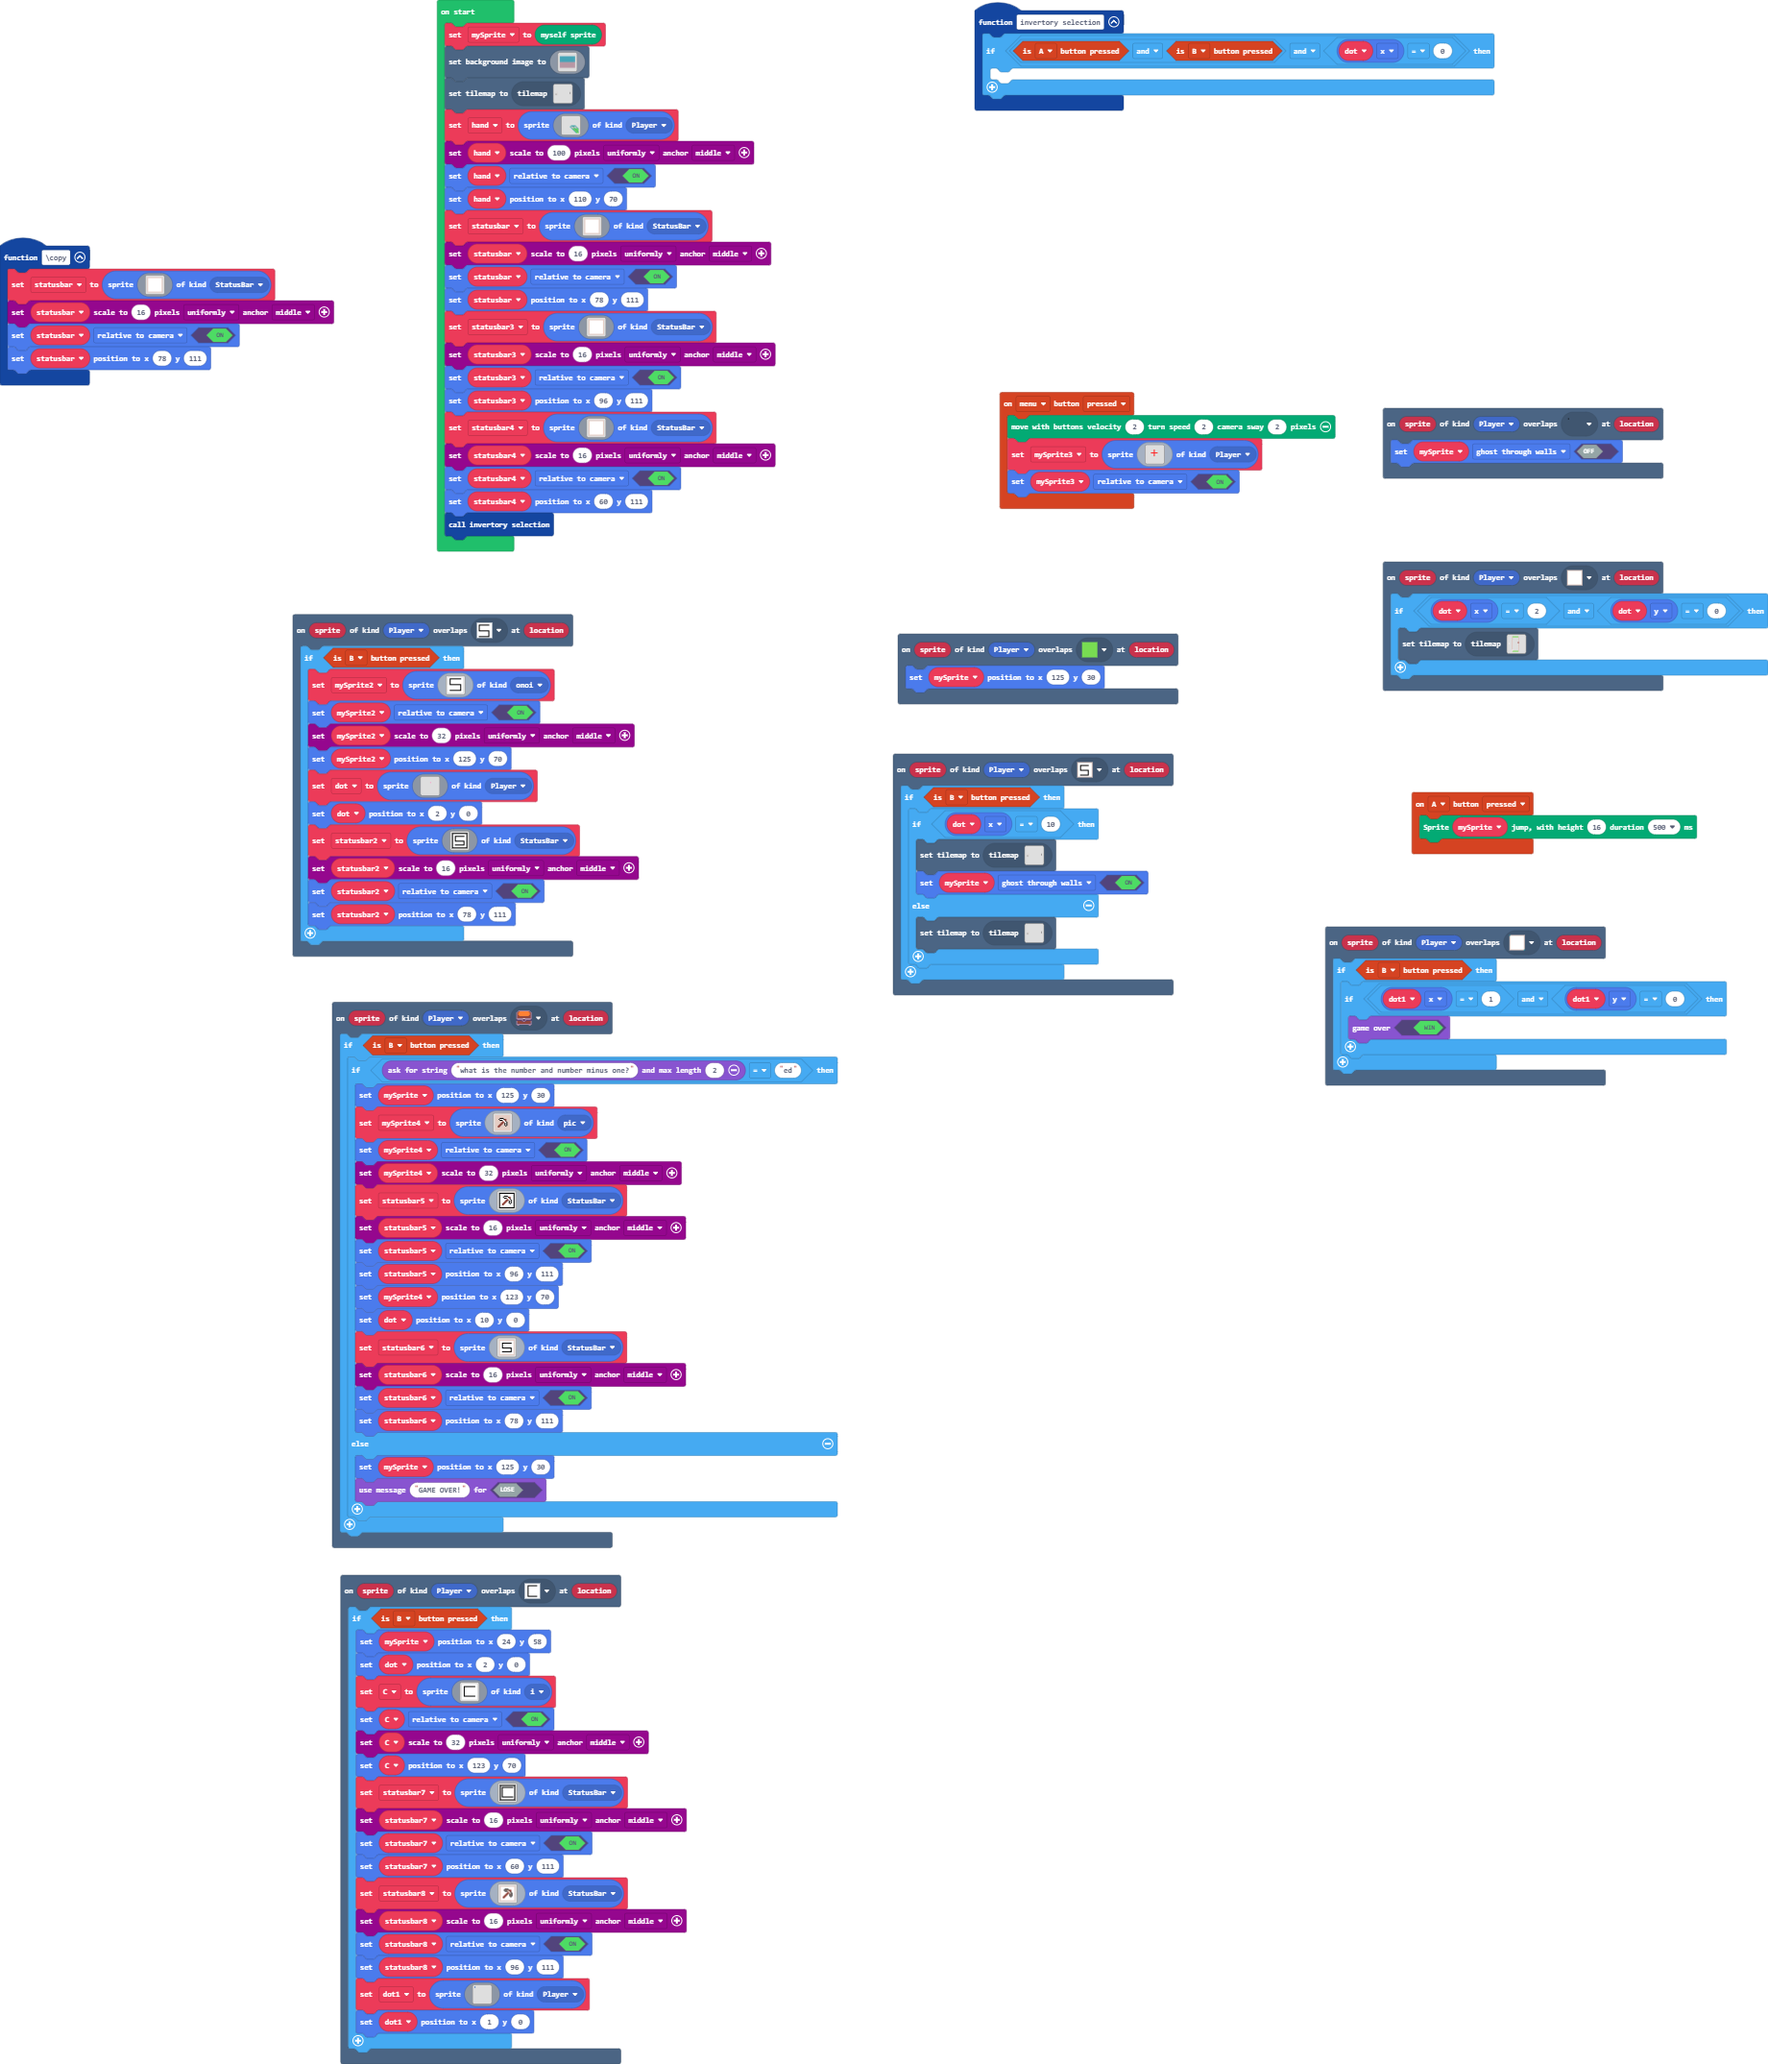
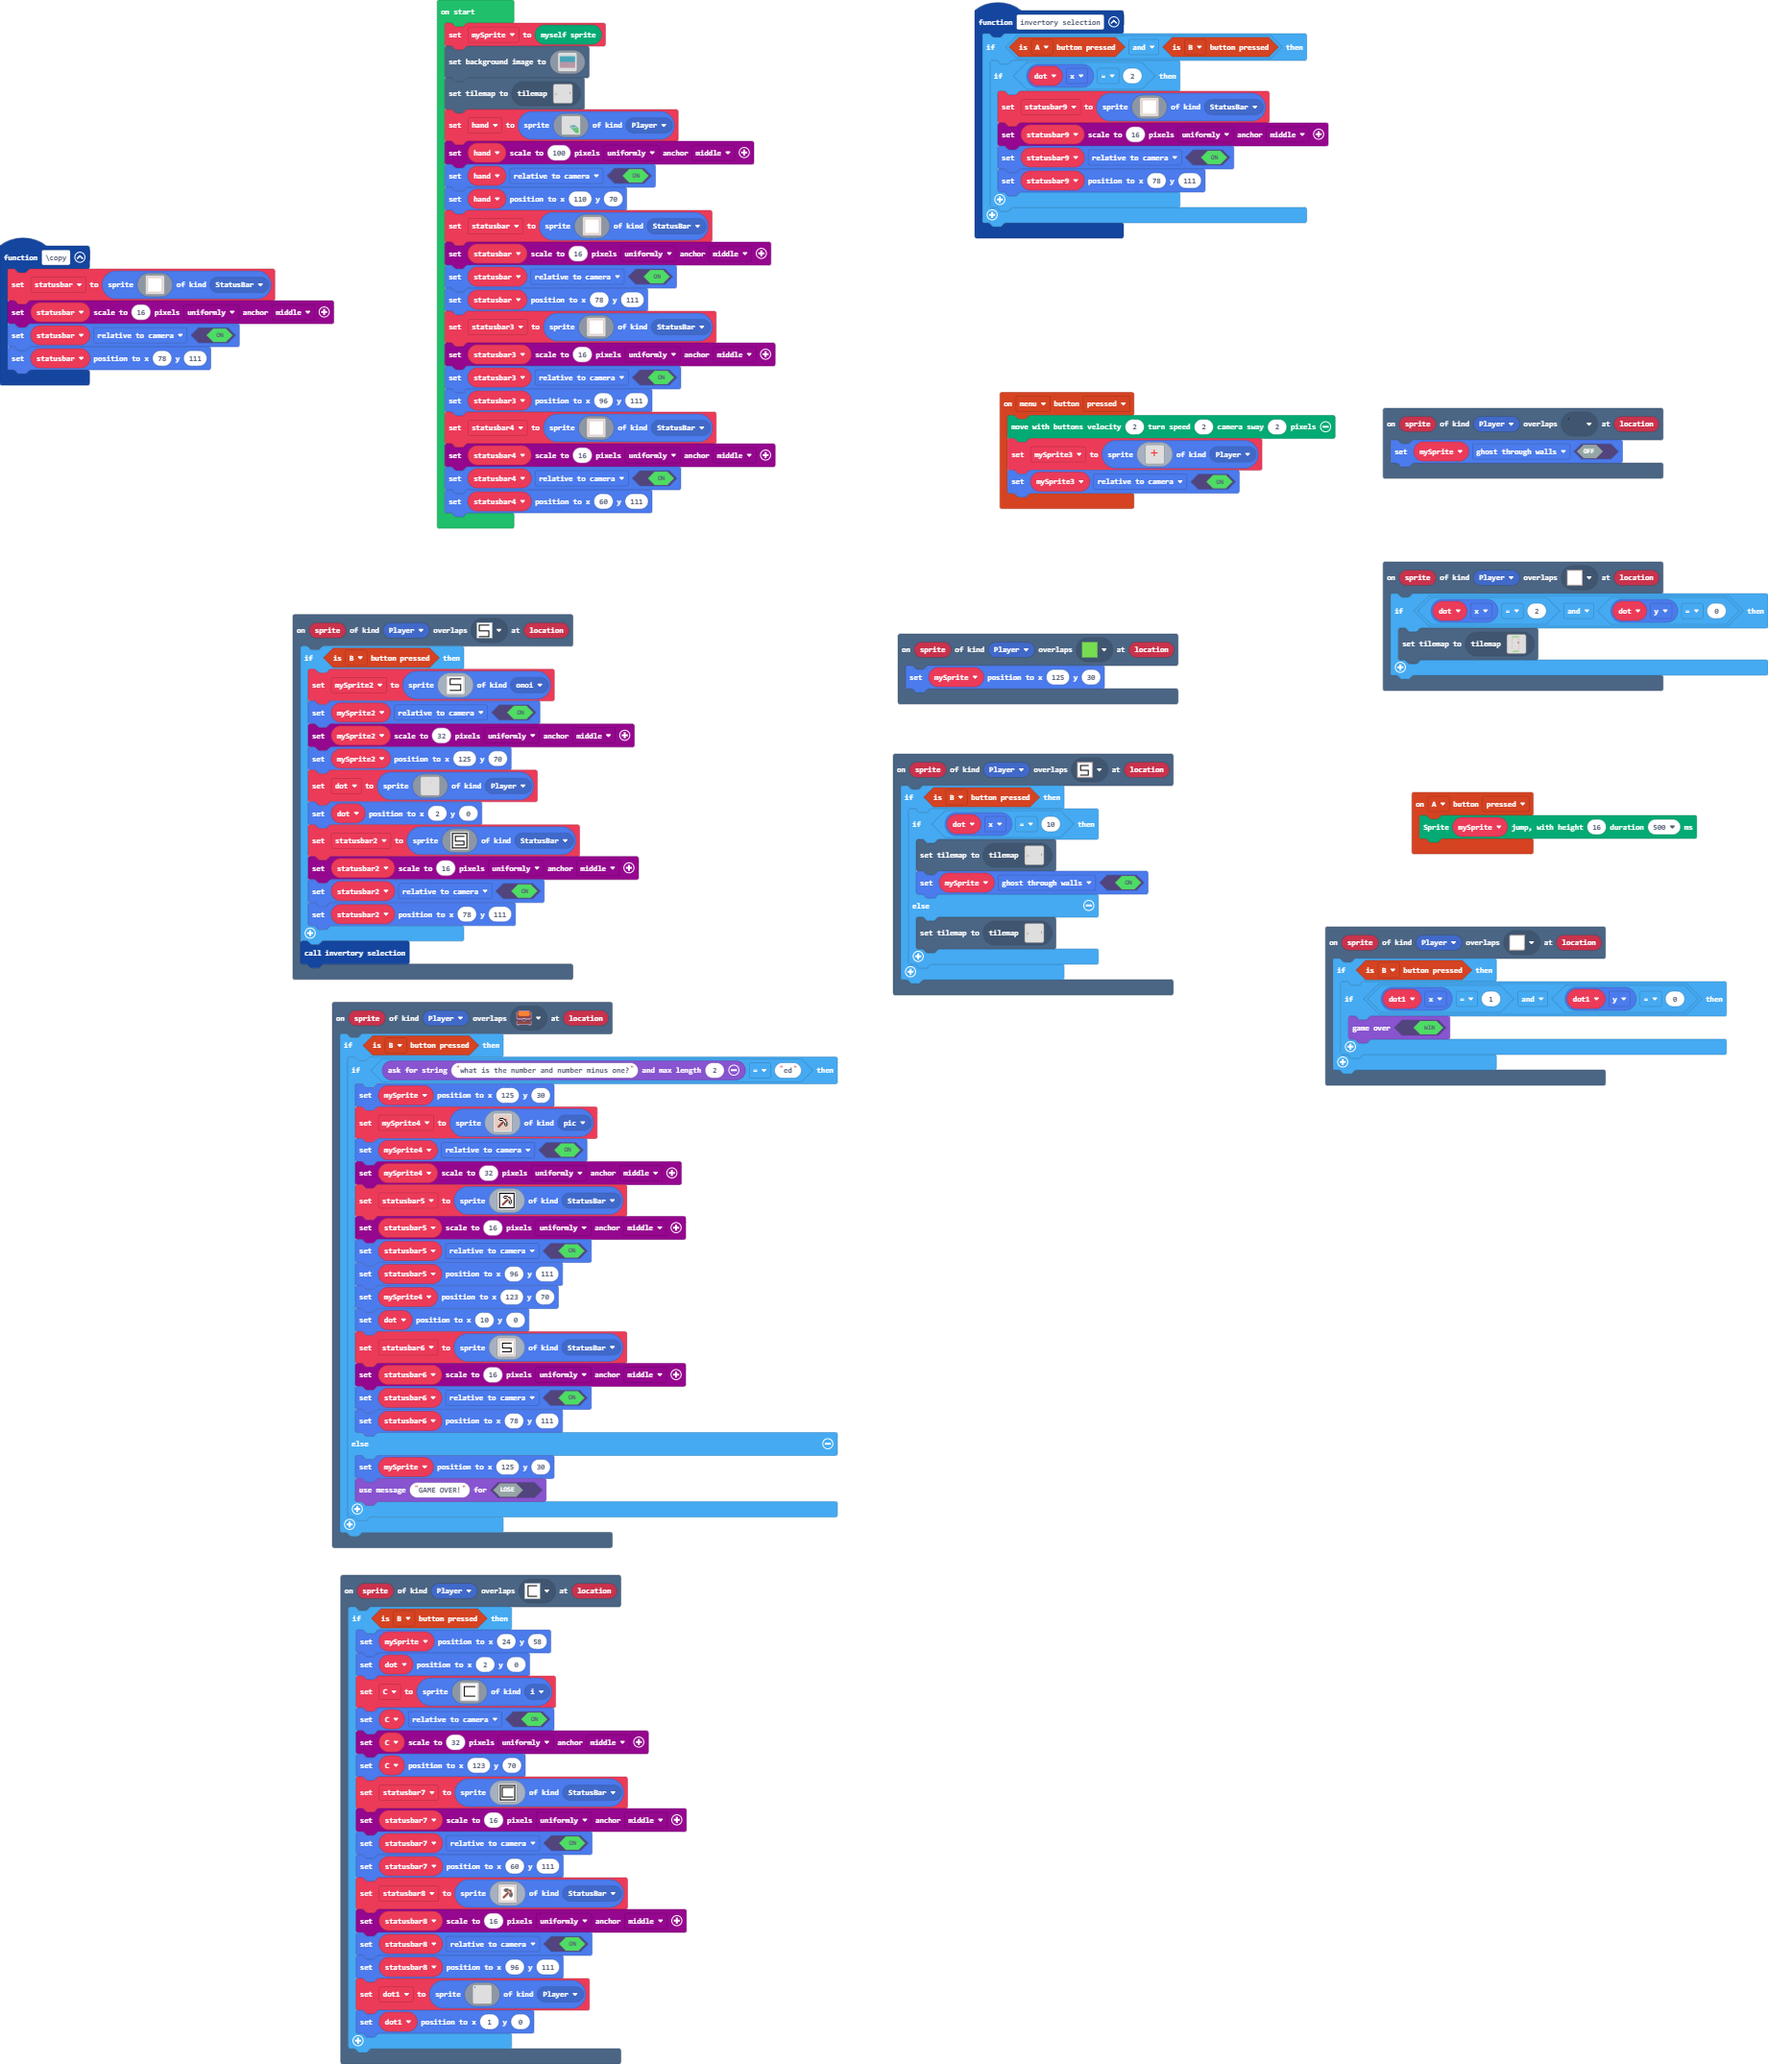
Update main.blocks, main.ts

Changed region(s): [[0.5263, 0.0, 0.8669, 0.1247], [0.1548, 0.4365, 0.3406, 0.4988], [0.2477, 0.2494, 0.3096, 0.2806]]

diff --git a/main.ts b/main.ts
@@ -86,6 +86,7 @@ scene.onOverlapTile(SpriteKind.Player, assets.tile`myTile`, function (sprite, lo
         statusbar2.setFlag(SpriteFlag.RelativeToCamera, true)
         statusbar2.setPosition(78, 111)
     }
+    invertory_selection()
 })
 controller.A.onEvent(ControllerButtonEvent.Pressed, function () {
     Render.jumpWithHeightAndDuration(mySprite, 16, 500)
@@ -311,10 +312,33 @@ function copy () {
     statusbar.setPosition(78, 111)
 }
 function invertory_selection () {
-    if (controller.A.isPressed() && controller.B.isPressed() && dot.x == 0) {
-    	
+    if (controller.A.isPressed() && controller.B.isPressed()) {
+        if (dot.x == 2) {
+            statusbar9 = sprites.create(img`
+                d d d d d d d d d d d d d d d d 
+                d 1 1 1 1 1 1 1 1 1 1 1 1 1 1 d 
+                d 1 1 1 1 1 1 1 1 1 1 1 1 1 1 d 
+                d 1 1 1 1 1 1 1 1 1 1 1 1 1 1 d 
+                d 1 1 1 1 1 1 1 1 1 1 1 1 1 1 d 
+                d 1 1 1 1 1 1 1 1 1 1 1 1 1 1 d 
+                d 1 1 1 1 1 1 1 1 1 1 1 1 1 1 d 
+                d 1 1 1 1 1 1 1 1 1 1 1 1 1 1 d 
+                d 1 1 1 1 1 1 1 1 1 1 1 1 1 1 d 
+                d 1 1 1 1 1 1 1 1 1 1 1 1 1 1 d 
+                d 1 1 1 1 1 1 1 1 1 1 1 1 1 1 d 
+                d 1 1 1 1 1 1 1 1 1 1 1 1 1 1 d 
+                d 1 1 1 1 1 1 1 1 1 1 1 1 1 1 d 
+                d 1 1 1 1 1 1 1 1 1 1 1 1 1 1 d 
+                d 1 1 1 1 1 1 1 1 1 1 1 1 1 1 d 
+                d d d d d d d d d d d d d d d d 
+                `, SpriteKind.StatusBar)
+            scaling.scaleToPixels(statusbar9, 16, ScaleDirection.Uniformly, ScaleAnchor.Middle)
+            statusbar9.setFlag(SpriteFlag.RelativeToCamera, true)
+            statusbar9.setPosition(78, 111)
+        }
     }
 }
+let statusbar9: Sprite = null
 let mySprite3: Sprite = null
 let statusbar8: Sprite = null
 let statusbar7: Sprite = null
@@ -536,4 +560,3 @@ let statusbar4 = sprites.create(img`
 scaling.scaleToPixels(statusbar4, 16, ScaleDirection.Uniformly, ScaleAnchor.Middle)
 statusbar4.setFlag(SpriteFlag.RelativeToCamera, true)
 statusbar4.setPosition(60, 111)
-invertory_selection()
